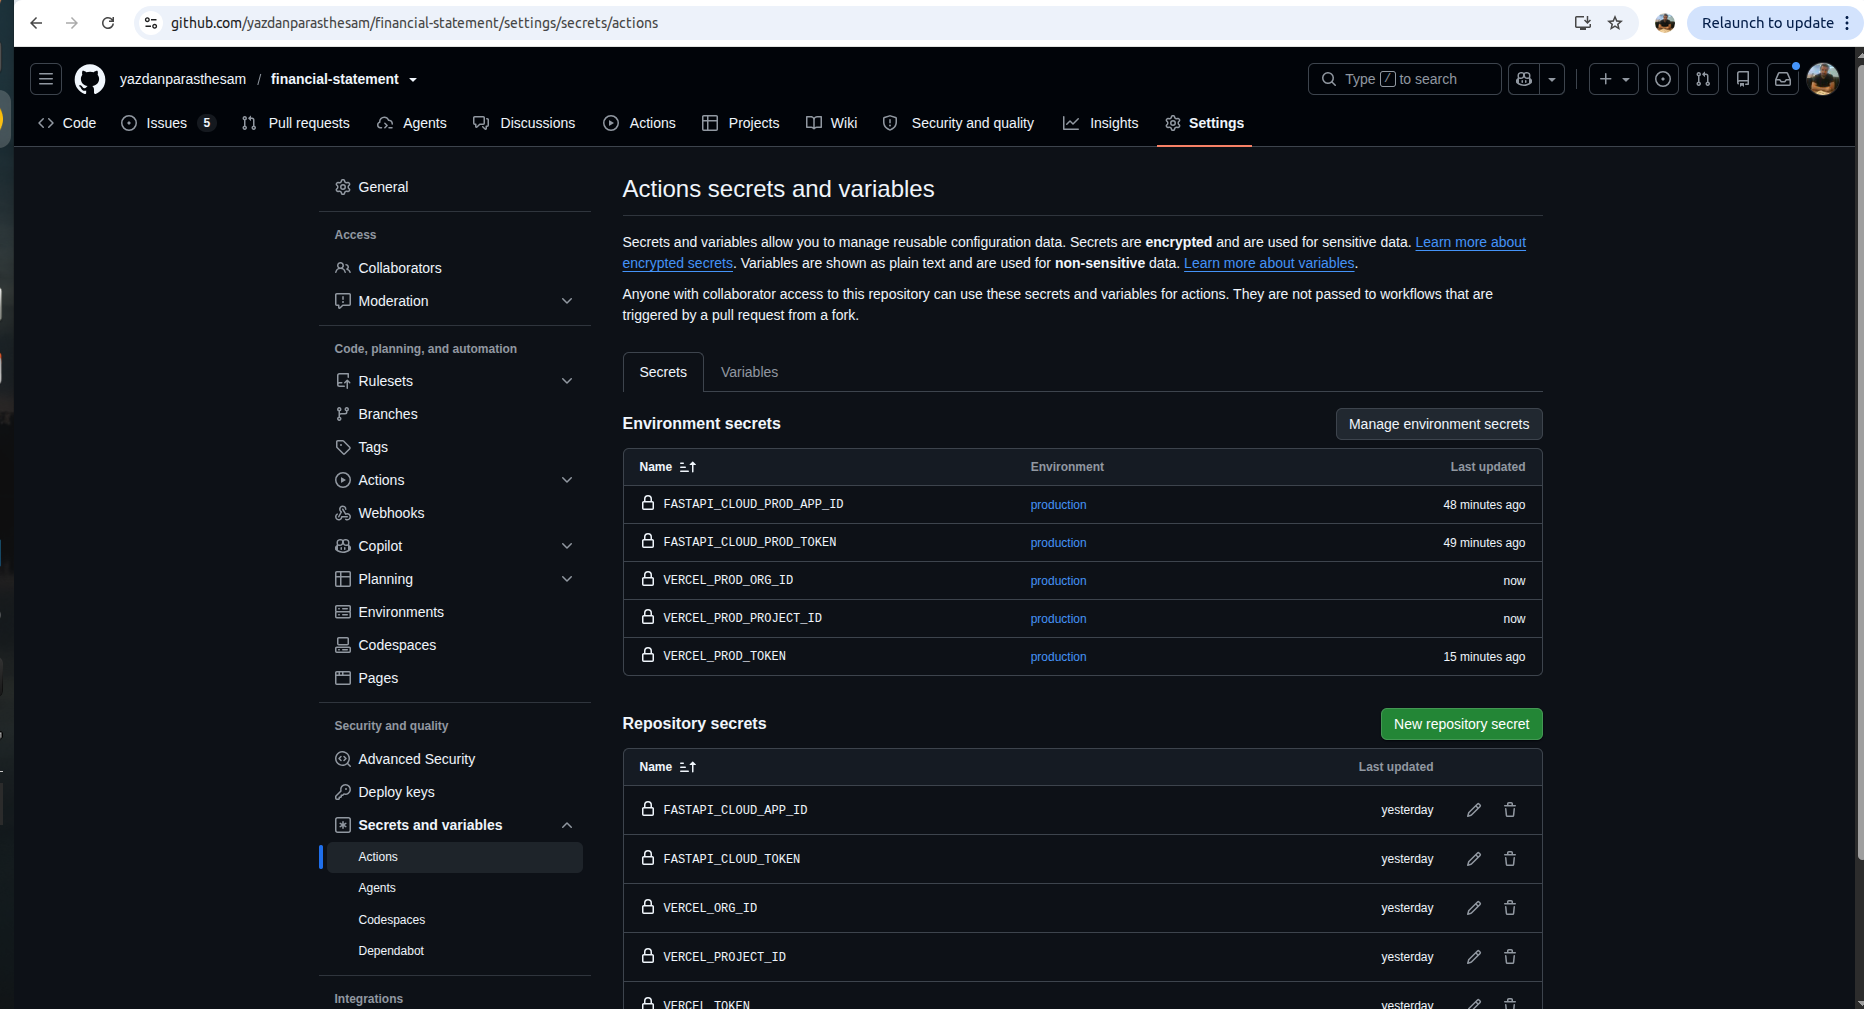
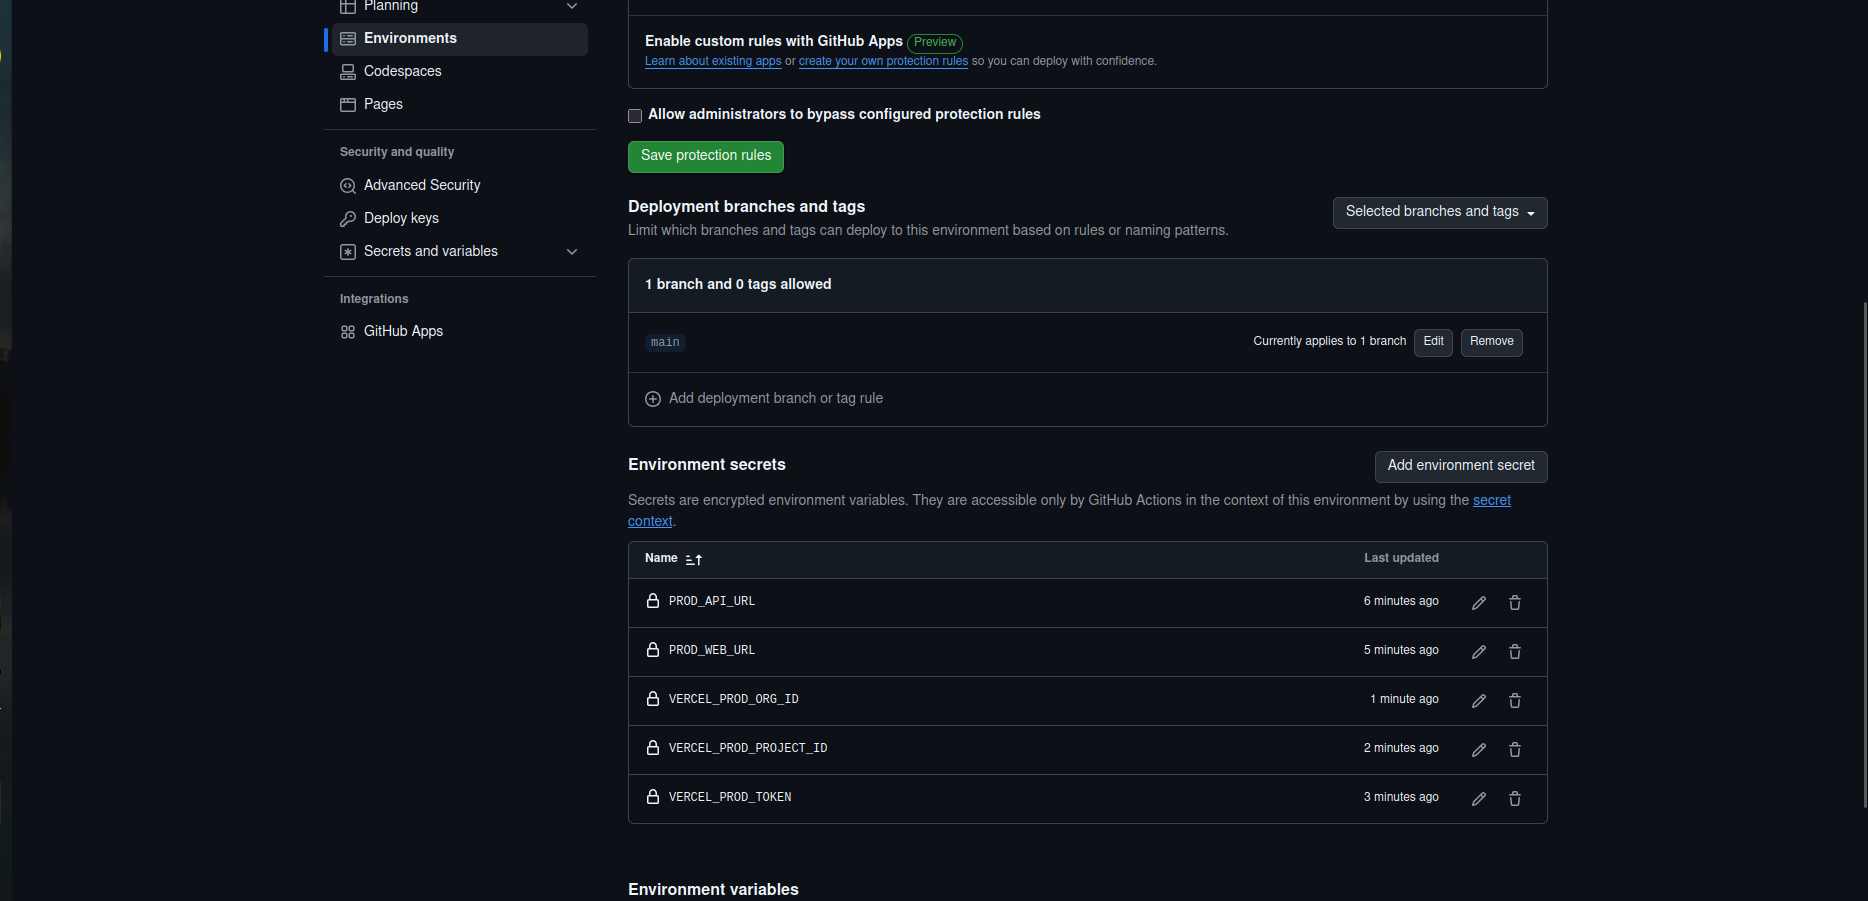
add prod

diff --git a/docs/course-submission-runbook.md b/docs/course-submission-runbook.md
@@ -456,45 +456,6 @@ The latest confirmed dev sequence is green: commit `ab26a95`, CI #32, API Deploy
 
 ![In-progress Export checklist: notes finalization, review submission, and reviewer acceptance remain unchecked; not completion evidence](images/dev-export-checklist-pending.png)
 
-![Vercel project metadata names clinicops-dev-web; project identifiers and shell identity are cropped out](../evidence/52-vercel-project-metadata-redacted.png)
-
-![Vercel token-creation settings show project scope clinicops-dev-web and a 30-day expiry; no token value is shown](../evidence/53-vercel-project-scoped-token-settings.png)
-
-![Before Vercel credential setup, the GitHub Actions secret list contains only the two existing FastAPI Cloud secret names](../evidence/54-github-vercel-secrets-before-addition.png)
-
-![GitHub Actions repository now includes Vercel deployment secret names; values are not shown](../evidence/55-github-vercel-deploy-secrets-configured.png)
-
-![GitHub Actions shows green CI #9, API Deploy #9, and Vercel Web #2 runs](../evidence/56-github-vercel-dev-deploy-green.png)
-
-![Latest GitHub Actions shows green CI #10, API Deploy #10, and Vercel Web #3](../evidence/57-github-latest-dev-deploy-green.png)
-
-![Vercel project overview shows the dev Production deployment Ready and the public domain assigned](../evidence/58-vercel-dev-project-production-ready.png)
-
-![Vercel deployment details show the latest dev deployment Ready and Current](../evidence/59-vercel-dev-deployment-details-ready.png)
-
-![Vercel preview deployment serves the ClinicOps sign-in screen](../evidence/60-vercel-preview-login-page.png)
-
-![Stable clinicops-dev-web.vercel.app/login serves the ClinicOps sign-in screen](../evidence/61-dev-web-login-page.png)
-
-![Registration screen with all entered identity and password values removed](../evidence/62-dev-web-registration-form-redacted.png)
-
-![First authenticated Dashboard after registration; account email cropped out](../evidence/63-dev-web-empty-dashboard.png)
-
-![Patient setup form with the National ID blanked in the evidence copy](../evidence/64-dev-web-patient-created-redacted.png)
-
-![Dashboard shows synthetic patient and visit #9 in Draft](../evidence/65-dev-web-visit-created.png)
-
-![Visit #9 opens to the Intake upload step](../evidence/66-dev-web-intake-step.png)
-
-![Uploaded multimodal intake: CSV + wound image + voice memo with modalities linked](../evidence/67-dev-web-intake-uploaded.png)
-
-![Generated clinical scores (BMI, eGFR, MAP, Wells, CCI…) from the uploaded data](../evidence/68-dev-web-scores-generated.png)
-
-![Validation reports 8 of 8 rules passed and ready to submit](../evidence/69-dev-web-validation-passed.png)
-
-![AI draft: vision findings + transcript → SOAP structured note (self-criticism)](../evidence/70-dev-web-ai-drafts-generated.png)
-
-![Review page shows AI discharge summary; visit is still Draft and not yet submitted](../evidence/71-dev-web-review-draft.png)
 
 The exact dev CORS origin was saved and applied by the gated API deployment. Production API/Vercel settings, CORS, environment secrets, and approval protection are configured; the apps remain undeployed until prod dispatch and API-to-Neon connectivity is unverified. Commit `ab26a95` has green CI #32, dev API Deploy #32, and dev Vercel Web #25. Deploy #32 shows `deploy-dev` succeeded and `deploy-prod` succeeded via manual promotion (evidence 93) — **the fix vs Project 1 where prod was skipped**. The Vercel token rotation and API-first workflow-order review are deferred until final preflight. The dev visit is still Draft; only use synthetic data.
 
@@ -502,19 +463,9 @@ The exact dev CORS origin was saved and applied by the gated API deployment. Pro
 
 The Neon project list shows the `clinicops-multimodal` project in Frankfurt with three branches. The branch overview confirms `production` is the default, non-expiring branch on the Free plan. The Connect dialog is set to branch `production`, database `neondb`, role `neondb_owner`, with pooling enabled; the password is masked. The user confirmed the production password rotation separately; the screenshot itself confirms branch/connection settings only. The FastAPI Cloud app has been tested against this database and is Live.
 
-![Neon project list and region](../evidence/72-neon-project-list.png)
+![Neon production branch overview — production Default, 1 database 1 compute, muddy-cake project](../evidence/73-neon-production-branch-overview.png)
 
-![Neon production branch overview](../evidence/73-neon-production-branch-overview.png)
-
-![Neon pooled connection settings for production; password masked](../evidence/74-neon-production-pooled-connect.png)
-
-![FastAPI Cloud clinicops-prod-api has DATABASE_URL and JWT_SECRET saved as masked secrets; app is Live](../evidence/75-fastapi-cloud-prod-env-secrets-masked.png)
-
-![FastAPI Cloud production app uses backend root and has Git source Not Connected](../evidence/76-fastapi-cloud-prod-source-root-confirmed.png)
-
-![GitHub production environment has the protected FastAPI Cloud secret names; values hidden](../evidence/77-github-production-environment-secrets.png)
-
-![Production FastAPI secrets are environment-only; repository-level production duplicates removed](../evidence/78-github-prod-secrets-env-only.png)
+![Neon production pooled Connect — production/neondb/neondb_owner pooling enabled, password masked](../evidence/74-neon-production-pooled-connect.png)
 
 Production Vercel project `clinicops-prod-web` is configured **and deployed**. CLI confirms root `frontend`, preset `Other`, install `npm ci`, build `npm run build`, and output `dist`. `VITE_API_URL=https://clinicops-prod-api.fastapicloud.dev` is saved for Production, the assigned domain is `https://clinicops-prod-web.vercel.app`, and FastAPI Cloud `CORS_ORIGINS` matches that exact origin. The Vercel project ID is `prj_kd9wWSZ1WLYM8IClegKwMTRQyl44`; the team ID is `team_HpUqb7I7uxT4kKNDP7yMLOQg`. Both IDs are now saved as GitHub `production` environment secrets (`VERCEL_PROD_PROJECT_ID` and `VERCEL_PROD_ORG_ID`). GitHub `production` contains `VERCEL_PROD_TOKEN`; its project-scoped token never expires, and the user chose to defer rotation. Rotate it before production dispatch if needed. The `.github/workflows/deploy.yml` manual production API + Vercel path is pushed on `main` at `ab26a95`; CI #32 and the automatic dev API/web deployments are green. Current order deploys and health-checks the API before Vercel production pull/build/deploy; a later frontend preparation failure could leave a partial API-only rollout — review before dispatch. **The production job has been dispatched via `promote-prod.yml` with `production` environment approval — see evidence 93.**
 
@@ -522,33 +473,25 @@ Production Vercel project `clinicops-prod-web` is configured **and deployed**. C
 
 ![Vercel build settings screen with frontend root entered](../evidence/80-vercel-clinicops-prod-web-settings.png)
 
-![Vercel CLI reports the persisted root is frontend (corrected)](../evidence/86-vercel-cli-inspect-root-uncommitted.png)
-
-![Vercel CLI confirms saved root frontend](../evidence/87-vercel-cli-root-frontend-confirmed.png)
-
-![Vercel CLI JSON lists clinicops-prod-web project ID; production URL is Live](../evidence/88-vercel-prod-project-id.png)
-
-![Vercel CLI identifies the hesam2 team ID](../evidence/89-vercel-team-id.png)
-
-![Vercel Git settings explicitly confirm clinicops-prod-web is not connected to a repository](../evidence/92-vercel-prod-git-disconnected.png)
-
 ![Vercel confirms the VITE_API_URL Production variable is saved](../evidence/81-vercel-clinicops-prod-web-prod-api-url.png)
 
 ![Vercel production domain clinicops-prod-web.vercel.app is Live](../evidence/82-vercel-clinicops-prod-web-domain.png)
 
-![FastAPI Cloud production CORS origin is set; app is Live](../evidence/83-fastapi-cloud-prod-cors-origin.png)
+![ClinicOps prod login — https://clinicops-prod-web.vercel.app/login Live](../evidence/61-dev-web-login-page-prod.png)
 
-![GitHub production environment contains VERCEL_PROD_TOKEN; token value is not shown](../evidence/84-github-production-vercel-token-secret.png)
 
-![GitHub production environment now contains both Vercel org and project ID secrets](../evidence/90-github-prod-vercel-ids-added.png)
-
-![GitHub Actions confirms the ab26a95 CI/dev API/dev web chain is green](../evidence/91-github-dev-chain-ab26a95-green.png)
-
-![Deploy #32 shows deploy-dev succeeded and deploy-prod succeeded via manual promotion](../evidence/93-deploy32-production-job-succeeded.png)
-
-![Vercel project token is scoped to clinicops-prod-web](../evidence/85-vercel-token-project-scope-expiry.png)
 
 FastAPI Cloud `clinicops-prod-api` has been created and now shows `DATABASE_URL` and `JWT_SECRET` as masked environment secrets. The app is **Live**. Its Settings page confirms root `backend` and repository **Not Connected**. The secret screenshot confirms variable names are saved — and the live `/healthz` plus smoke confirm the database connection works. Do not use its dashboard deployment control; the GitHub production workflow is the intended gate. Commit `ab26a95` is pushed to `main`; CI #32, automatic dev API Deploy #32, and Vercel Web #25 are green. The production job was **manually dispatched** via `promote-prod.yml` with approval; this run constitutes production deployment evidence (fixing Project 1 gap).
+
+![FastAPI Cloud clinicops-prod-api Not deployed — clinicops-multimodal + backend](../evidence/23-fastapi-cloud-prod-not-deployed.png)
+
+![FastAPI Cloud prod Settings — backend root + Not Connected gate](../evidence/76-fastapi-cloud-prod-source-root-confirmed.png)
+
+![FastAPI Cloud prod Environment Variables — CORS_ORIGINS + DATABASE_URL + JWT_SECRET masked](../evidence/75-fastapi-cloud-prod-env-secrets-masked.png)
+
+![GitHub production environment — Required reviewers + 5 secrets (PROD_API_URL/WEB_URL/VERCEL_PROD_*)](../evidence/77-github-production-environment-secrets.png)
+
+![GitHub Actions — Environment secrets production + Repository secrets 6](../evidence/94-github-actions-secrets-current-6-secrets.png)
 
 **Before production dispatch:** confirm the production environment secrets `VERCEL_PROD_ORG_ID` and `VERCEL_PROD_PROJECT_ID` remain present; review and push the local workflow change using the owner's Git identity; rotate the Vercel token if desired; and trigger the protected manual production deployment only after explicit user confirmation. The production API-to-Neon connection is verified via `/healthz` and smoke.
 
@@ -599,7 +542,6 @@ GitHub destination: `github.com/yazdanparasthesam/clinicops-multimodal/settings/
 
 4. **Verify:** `curl -sf https://clinicops-dev-api.fastapicloud.dev/healthz | grep ok` → `{"status":"ok","version":"0.2.0"}` + `BASE=https://clinicops-dev-api.fastapicloud.dev bash ops/smoke.sh` → `19 passed, 0 failed (28 checks, 28/28 smoke passed)` including `frontend 200` and `metrics` (fixed `pipefail 23` via temp file, see evidence `110-smoke-dev-18-passed-1-failed-metrics.png` → `113-smoke-dev-19-passed-28-28-live.png` after fix). Same for prod with `production` branch.
 
-![Live dev API healthz + 19/19 smoke live — metrics and frontend green](evidence/113-smoke-dev-19-passed-28-28-live.png)
 
 **Vercel CI-fixed deployments:** After `CI #13` green (`backend 56s`, `frontend 22s`, `compose 1m17s`), Vercel `Project Deployments` shows `CI-ready 12s` + `fix: oncall warn 15s` + `fix: ruff lenient 10s` all `Ready 12-15s` `Production` `main` (see `105-vercel-deployments-ci-ready-12s.png`).
 
